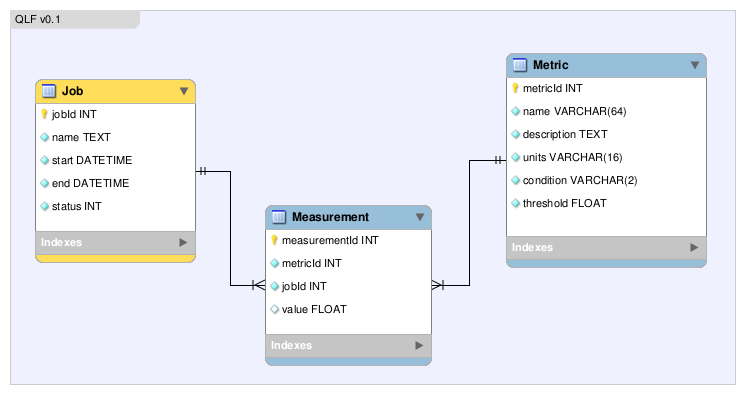
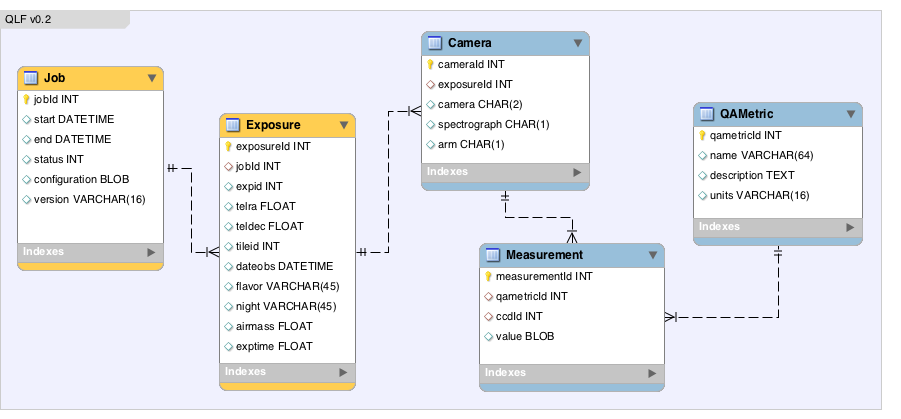
Updated qlf design

diff --git a/docs/index.rst b/docs/index.rst
@@ -4,7 +4,7 @@ Quick Look Framework
 .. toctree::
    :maxdepth: 2
 
-Angelo Fausti, Alisson Lanot, Luiz N. da Costa
+Angelo Fausti, Robson Goncalves, Luiz N. da Costa
 
 .. note::
     Work in progress.
@@ -19,7 +19,7 @@ In development mode, QLF runs locally and emulates the Data Online System (DOS) 
 metadata required to run the QL pipeline.
 
 See the `README <https://github.com/linea-it/qlf/blob/master/README.md>`_ for instructions on how to clone the repository,
-install the software dependencies and start the QLF demo.
+install the software dependencies and start QLF in development mode.
 
 System Design
 ^^^^^^^^^^^^^
@@ -34,69 +34,83 @@ The main components of QLF are described below
        Figure 1. QLF system components.
 
 
- - **DOS Test Environment**: Emulates DOS environment for integration tests during development;
- - **DOS Monitor**: implements the interface with DOS (or DOS test environment) to access the input files
-   and metadata required to run the QL pipeline;
- - **QLF App**: orchestrates the execution of the QL pipeline, prepare input data and configuration, launches the QL pipeline and store relevant information in the QLF database for display in the dashoard;
- - **QL pipeline**: implemented independently of the QLF, QL pipeline communicates with the QLF framework
-   through the QLF API;
- - **Dashboard**: web pages for display the QA metrics.
+DOS Test Environment
+--------------------
+
+Emulates the acquisition of new exposures for integration tests during development.
 
 
-TODO: include description of the dataflow
+DOS Monitor
+-----------
+
+Implements the interface with DOS (or DOS test environment) to access the input files and metadata required to run the QL pipeline.
+
+``DOSlib`` API will provide methods to query the opsDB, for example ``DOSlib.get_last_expid()`` returns information about the last observed exposure such as ``expid``, ``obsdate`` and
+``flavor`` and ``DOSlib.get_files(expid)`` can be used to transfer the required input files from DOS (or from the DOS test environment)
+to QLF local disk:
+
+ - Exposure (a FITS file with 30 HDUs one per camera)
+ - Calibration files (Fiber flat, PSF Boot, etc)
+
+NOTE: Exposure metadata, telemetry data, fibermap and ETC data will also be obtained from opsDB using ``DOSlib``.
 
 
-Implementation phases
-^^^^^^^^^^^^^^^^^^^^^
-
- - **QLF v0.1**: demonstration of QLF technology stack and main concepts. In this initial version QLF produces a scalar metric (e.g. Median SNR), stores this value and job information in the database and display the result in a web page.
- - **QLF v0.2**: improvements in the QLF interface to include configuration, monitor and control the pipeline execution
- - **QLF v0.3**: first integration with QL pipeline, using simulated data and processing one ccd, still display aggregated metrics but includes a first implementation of the DOS Test Environment.
- - **QLF v0.4**: support individual and aggregated metrics, implement single CCD display
- - **QLF V0.5**: ...
-
-QLF v0.1
-^^^^^^^^
-
-This section describes QLF v0.1 implementation.
-
-The selected technologies prioritize the use of Python
-as the main development language, and a mature framework like Django making the system easy to extend for DESI developers.
-The web dashboard uses `Django <https://www.djangoproject.com/>`_ and the `Bokeh <http://bokeh.pydata.org/en/latest/>`_ python plotting library to create interactive visualizations in the browser.
-
-
-QLF database
+QL Framework
 ------------
 
-The QLF database keeps information about the QA metrics and pipeline execution.
+Orchestrates the execution of the QL pipeline and store relevant QA results in the database for visualization.
+
+The QLF database keeps information about the execution, and QA measurements associated with a given camera and
+exposure.
 
     .. figure:: _static/qlfdb.png
        :name: qlfdb
        :target: _static/qlfdb.png
-       :alt: QLF v0.1 database
+       :alt: QLF v0.2 database
 
-       Figure 2. QLF v0.1 database, showing ``Job``, ``Metric`` and associated ``Measurement`` tables.
-
-
-QA metrics are registered in the ``Metric`` table. A metric has ``name``, ``description``, ``condition``
-and a ``threshold`` that can be used to trigger alerts.
-
-In QLF v0.1,  this table stores just **summary information** (e.g. median SNR per ccd). We plan to extend the schema in QLF v0.4 to support
-individual and aggregated measurements adding the ``Spectrograph``, ``Ccd`` and ``Fiber`` tables in the schema (e.g. SNR of each fiber
-associated to a given CCD and spectrograph as well as median SNR per CCD or Spectrograph)
-
-Each execution of the pipeline is registered in the ``Job`` table and has ``start``, ``end`` time and a ``status``.
-
-In the current schema, each job can perform *N* measurements and each measurement is associated to a metric.
+       Figure 2. Schema of the QLF v0.2 database
 
 
-The Execution framework
------------------------
+QA metrics are pre-loaded into the ``QAMetric`` table as part of the database initialization. A QA metric has just ``name``, ``description``, and ``unit``.
 
-In QLF v0.1, the execution framework is simply a daemon that launches an executable code (a placeholder for the actual QL pipeline).
-The output of this code is registered into the QLF database through the QLF API.
+1. Call ``DOSlib.get_last_expid()``
 
-A typical call to the QLF API looks like:
+2. If last observed ``expid`` > last processed ``expid``; then call ``QLF.register(exposure)``. The exposure registration inserts just the ``expid``, ``obsdate`` and ``flavor`` in the ``Exposure`` table.
+
+NOTE: we want to register all exposures regardless of the ``flavor``, this information is useful for night statistics but only `object` exposures will be
+processed
+
+3. If ``flavor`` is `object`; then call ``DOSlib.get_files(expid)``
+
+4. Ingest exposure metadata (available in the FITS header at this point)
+
+NOTE: can be done in item 2 too, depending whether we want metadata for non `object` exposures or not.
+
+5. Split the exposure and fiberflat files in individual FITS files (one for each camera) and call ``QLF.register(camera)`` which fills the ``Camera`` table.
+
+NOTE: other inputs are needed (e.g fibermap, PSF boot, etc)
+
+5. Generate the QL configuration (one file for each camera) based on the current saved configuration
+
+NOTE: The QL configuration can be changed on-the-fly via the interface
+
+7. Execute 30 instances of the QL pipeline (one for each camera) in parallel
+
+8. During the execution of each instance, each processing step makes an HTTP post to fill the ``Measurement`` table with the corresponding QA output, associated with the current exposure and camera (async)
+
+NOTE: we need the QA results as soon as they are produced in order to monitor the execution in real-time; we can't wait the end of the pipeline
+execution in order to ingest the results. The partial results of each step for each camera must be
+available immediately for visualization. For each exposure that means about 10 QAs x 30 cameras HTTP requests, which should be fine.
+
+Discuss failure recovery.
+
+9. Go back to 1.
+
+NOTE: For dark time the exposure time (900s) > than the processing time, but for bright time the exposure time
+will be shorter than the processing time. Note that the above algorithm works for both, we always process the most recent
+exposure.
+
+A typical HTTP POST in the QLF API looks like:
 
 .. code-block:: python
 
@@ -106,12 +120,14 @@ A typical call to the QLF API looks like:
     200
     >>> api = response.json()
     >>> job = {
-                 "name": "test",
+                 "id": 1,
+                 "expid": 0,
+                 "camera": "r0",
                  "status": 0,
                  "measurements": [
                      {
                          "metric": "SNR",
-                         "value": 1.0
+                         "value": <JSON object of the QA output>
                      }
                  ]
                }
@@ -119,28 +135,52 @@ A typical call to the QLF API looks like:
     >>> response.status_code
     201
 
-the QLF daemon is implemented in `bin/qlf.py <https://github.com/linea-it/qlf/blob/master/qlf/bin/qlf.py>`_. In v0.1 it
-sends a constant *SNR=1.0* each 10s to the QLF API.
 
-.. note::
-   In development mode the API can be reached at http://localhost:8000/dashboard/api with user=nobody and password=nobody
+QL pipeline
+-----------
+
+Implemented independently, it is launched by QLF. QL pipeline communicates back with the QLF framework via HTTP POST.
+
+The processing steps and associated QAs are listed below:
+
+1. Preprocessing:
+
+ - https://github.com/desihub/desidatamodel/blob/master/doc/QUICKLOOK/qa-countpix-CAMERA-EXPID.rst
+ - https://github.com/desihub/desidatamodel/blob/master/doc/QUICKLOOK/qa-getbias-CAMERA-EXPID.rst
+ - https://github.com/desihub/desidatamodel/blob/master/doc/QUICKLOOK/qa-getrms-CAMERA-EXPID.rst
+ - https://github.com/desihub/desidatamodel/blob/master/doc/QUICKLOOK/qa-xwsigma-CAMERA-EXPID.rst
+
+2. Extraction: desispec.boxcar.py
+
+ - https://github.com/desihub/desidatamodel/blob/master/doc/QUICKLOOK/qa-countbins-CAMERA-EXPID.rst
+
+
+3. Fiber Flattening: desispec.quickfiberflat.py
+
+ - https://github.com/desihub/desidatamodel/blob/master/doc/QUICKLOOK/qa-integ-CAMERA-EXPID.rst
+ - https://github.com/desihub/desidatamodel/blob/master/doc/QUICKLOOK/qa-skycont-CAMERA-EXPID.rst
+ - https://github.com/desihub/desidatamodel/blob/master/doc/QUICKLOOK/qa-skypeak-CAMERA-EXPID.rst
+
+4. Sky Subtraction: desispec.quicksky.py
+
+ - https://github.com/desihub/desidatamodel/blob/master/doc/QUICKLOOK/qa-snr-CAMERA-EXPID.rs
 
 
 Visualization
 -------------
 
-For QLF v0.1 we integrated the Django framework and the Bokeh python library. In order to demonstrate this integration we implemented a dashboard that lists QA metrics registered in the QLF database (e.g Median SNR) and present an interactive time series plot
-showing the values measured by each execution of the QL pipeline. Once QLF is integrated with the QL pipeline and we have single CCD processing in place we plan
-to extend the dashboard based on requirements from the collaboration.
+Web pages for display the QA metrics.
 
-A screenshot of the current dashboard interface is shown below:
 
-    .. figure:: _static/dashboard.png
-       :name: dashboard
-       :target: _static/dashboard.png
-       :alt: QLF v0.1 dashboard
+Implementation phases
+^^^^^^^^^^^^^^^^^^^^^
 
-       Figure 2. QLF v0.1 dashboard, listing QA netrics and a time series plot.
+ - **QLF v0.1**: demonstration of QLF technology stack and main concepts. In this initial version QLF produces a scalar metric (e.g. Median SNR), stores this value in the database and display the result in a web page. The selected technologies prioritize the use of Python as the main development language, and a mature framework like Django. The web dashboard uses `Django <https://www.djangoproject.com/>`_ and the `Bokeh <http://bokeh.pydata.org/en/latest/>`_ python plotting library to create interactive visualizations in the browser.
+
+ - **QLF v0.2**: improvements in the QLF interface to control the pipeline execution and display the execution log; new database schema including ``Exposure`` and ``Camera`` tables; ingestion of QA outputs as JSON blobs in the ``Measurements`` table. Include at least an example of interactive plot  (e.g SNR vs. mag)
+
+ - **QLF V0.3**: ...
+
 
 
 References
